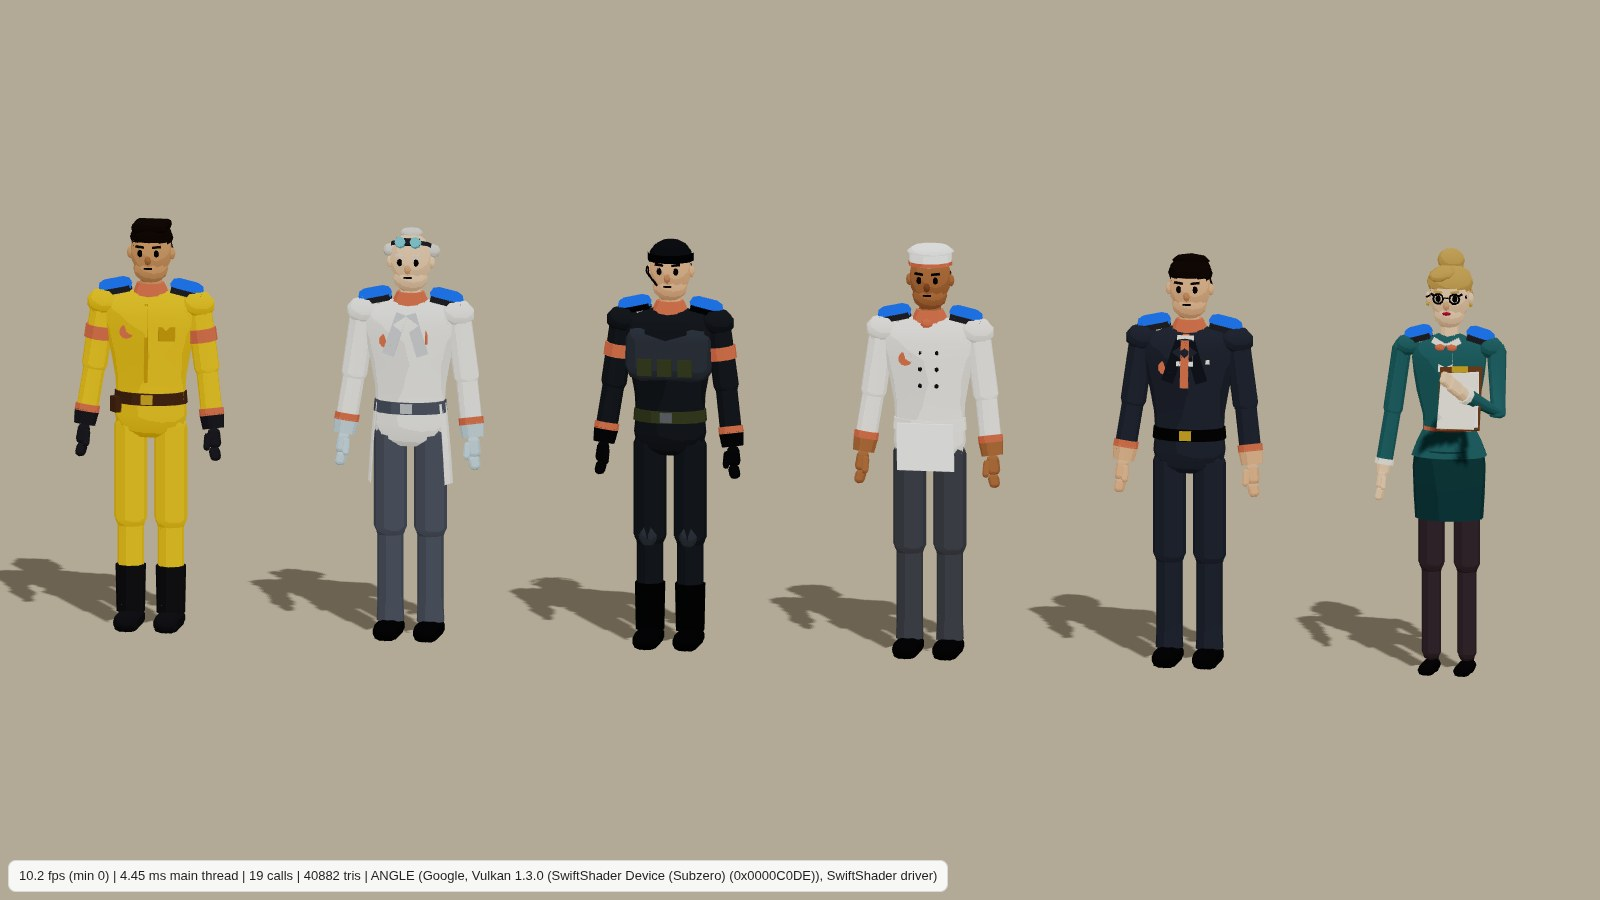
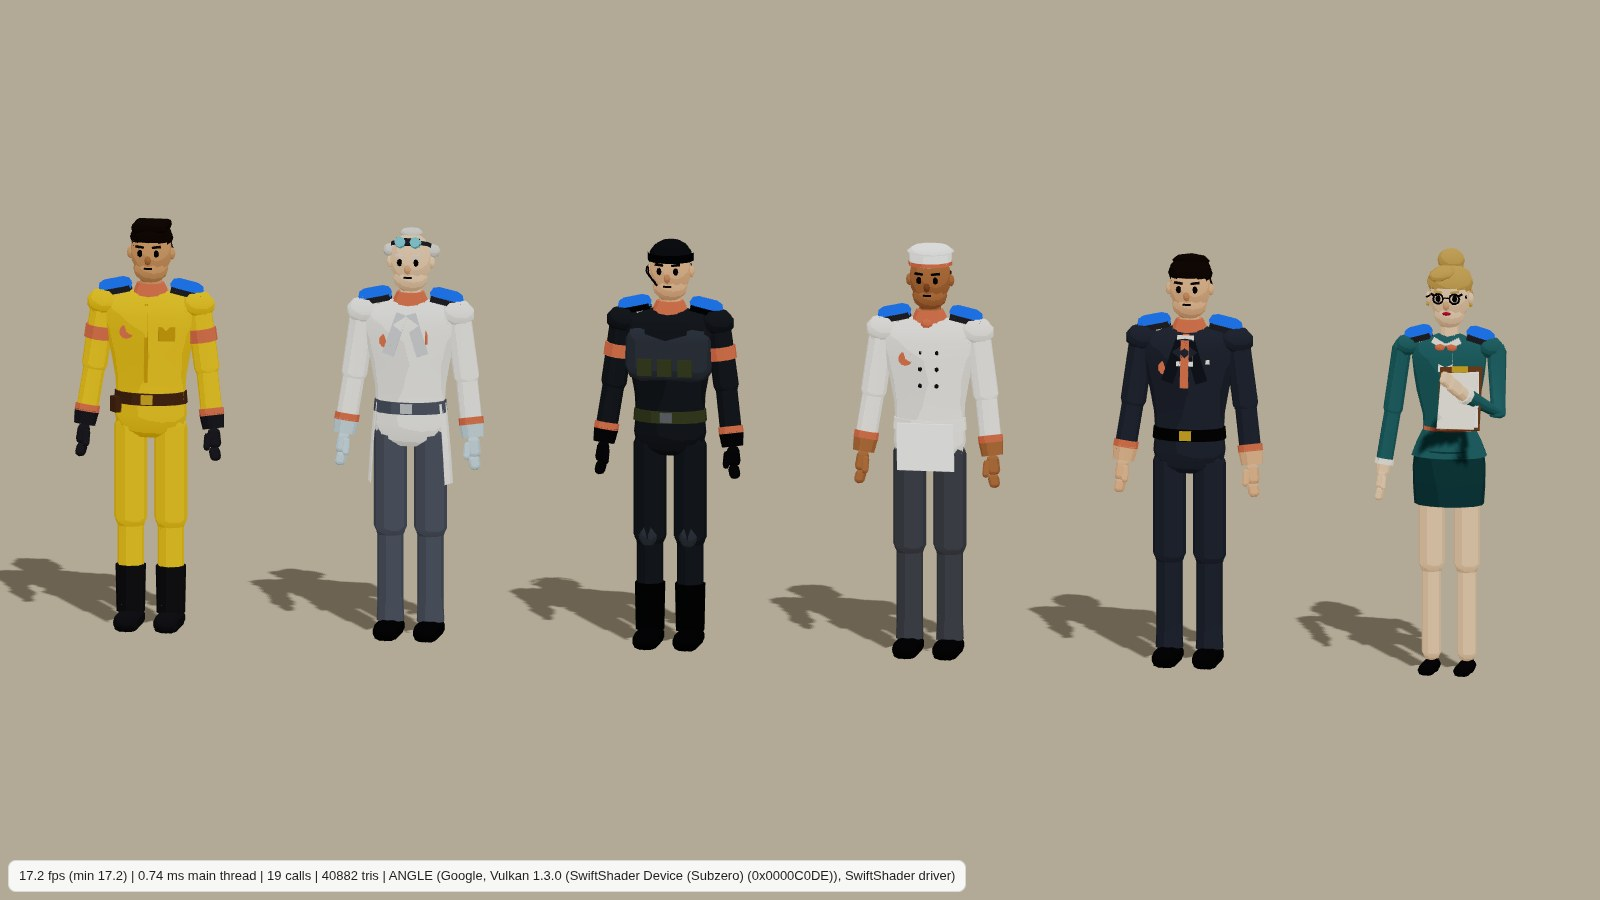
web: the secretary wears a mid-thigh mini skirt over sheer tights in her skin tone (#281)
Review of #287: the knee-length skirt over dark tights read as trousers
from the game camera.

Changed region(s): [[0.0625, 0.9644, 0.625, 0.9956], [0.875, 0.56, 0.9375, 0.7467]]

diff --git a/apps/web/src/scene/henchmen/secretary.test.ts b/apps/web/src/scene/henchmen/secretary.test.ts
@@ -1,6 +1,6 @@
 /**
  * The secretary form (#281): built on the crew's rig, dressed for the office
- * (jacket to the collar, skirt to above the knee), glasses on, hair up, and a
+ * (jacket to the collar, a mini skirt to mid-thigh over sheer tights), glasses on, hair up, and a
  * clipboard that sits in her left arm against the chest in every clip.
  */
 import { describe, expect, test } from "bun:test";
@@ -13,7 +13,8 @@ import { skinMatrix } from "./posed.ts";
 import { HOLD_CLIPBOARD, STAND } from "./poses.ts";
 import { BONE_INDEX, type BoneName, bindPosition } from "./rig.ts";
 import { secretaryParts } from "./secretary.ts";
-import { SKIN_LOOKS, skinGeometry } from "./skins.ts";
+import { paletteFor, SKIN_LOOKS, skinGeometry } from "./skins.ts";
+import { crewVariant, SKIN_TONES } from "./variety.ts";
 
 const g = skinGeometry("secretary");
 
@@ -75,13 +76,25 @@ describe("the secretary", () => {
       if (id !== "secretary") expect([id, look.holds]).toEqual([id, false]);
   });
 
-  test("dressed for the office: skin shows only at the head, neck and hands", () => {
+  test("dressed for the office: bare skin only at the head, neck and hands; the legs are in tights", () => {
     const bare = verts.filter((v) => v.slot === "skin" || v.slot === "skinShade");
     expect(bare.length).toBeGreaterThan(50);
     for (const v of bare) {
       const where = [...HEAD_BONES, ...HAND_BONES].reduce((s, b) => s + v.on(b), 0);
       expect(where).toBeCloseTo(1, 5);
     }
+    // The legs are their own slot (sheer tights), which takes her skin tone, shoes stay dark.
+    const legs = verts.filter((v) => v.on("LowerLegL") + v.on("UpperLegL") > 0.9);
+    expect(new Set(legs.map((v) => v.slot))).toEqual(new Set(["pants"]));
+    expect(SKIN_LOOKS.secretary.sheerLegs).toBe(true);
+    for (const seed of ["moneypenny", "tilly", "shim"]) {
+      const v = crewVariant(seed);
+      const p = paletteFor("secretary", undefined, v);
+      expect(p.pants).toBe(SKIN_TONES[v.tone]?.skin as string);
+      expect(p.boots).toBe(SKIN_LOOKS.secretary.palette.boots);
+    }
+    expect(paletteFor("secretary", undefined).pants).toBe(SKIN_LOOKS.secretary.palette.skin);
+    expect(paletteFor("standard", undefined, crewVariant("shim")).pants).toBe("#F2C200");
     // The jacket closes at the collar: suit or blouse right up to the neck's base.
     const torso = verts.filter(
       (v) => v.on("Body") > 0.5 && (v.slot === "suit" || v.slot === "shirt"),
@@ -89,15 +102,18 @@ describe("the secretary", () => {
     expect(Math.max(...torso.map((v) => v.p.y))).toBeGreaterThan(bindPosition("Neck").y);
   });
 
-  test("the skirt covers from the waist to a little above the knee, all the way round", () => {
+  test("a mini skirt: from the waist to mid-thigh, all the way round, well clear of the hip", () => {
     const skirt = verts.filter((v) => v.slot === "suitDark" && v.p.y < 0.97);
     const knee = bindPosition("LowerLegL").y;
     const hip = bindPosition("UpperLegL").y;
     const hem = Math.min(...skirt.map((v) => v.p.y));
-    expect(hem).toBeGreaterThan(knee + 0.1);
-    expect(hem).toBeLessThan(knee + 0.25);
-    // More than half of the thigh is covered.
-    expect((hip - hem) / (hip - knee)).toBeGreaterThan(0.5);
+    // Mid-thigh: between a third and a half of the thigh is covered.
+    expect((hip - hem) / (hip - knee)).toBeGreaterThan(0.33);
+    expect((hip - hem) / (hip - knee)).toBeLessThan(0.5);
+    // And it ends well below the hip joint and the bottom of the torso under it.
+    expect(hem).toBeLessThan(hip - 0.12);
+    const torsoBottom = Math.min(...verts.filter((v) => v.slot === "suit").map((v) => v.p.y));
+    expect(hem).toBeLessThan(torsoBottom - 0.08);
     expect(Math.max(...skirt.map((v) => v.p.y))).toBeGreaterThan(hip + 0.05);
     // A closed tube: at the hem there are vertices in front, behind and on both sides.
     const rim = skirt.filter((v) => v.p.y < hem + 0.01);

diff --git a/apps/web/src/scene/henchmen/skins.ts b/apps/web/src/scene/henchmen/skins.ts
@@ -38,6 +38,8 @@ export interface SkinLook {
   bareHands: boolean;
   /** Carries a clipboard in the left arm (the `Henchman|Hold` overlay). */
   holds: boolean;
+  /** Sheer tights: the legs (`pants`) take the wearer's skin tone. */
+  sheerLegs?: boolean;
 }
 
 const DARK_SHOES = "#1A1A1D";
@@ -137,7 +139,7 @@ export const SKIN_LOOKS: Readonly<Record<CharacterFormId, SkinLook>> = {
       ...STANDARD_PALETTE,
       suit: "#3C6E71",
       suitDark: "#2B5053",
-      pants: "#4B3F45",
+      pants: STANDARD_PALETTE.skin,
       shirt: "#F4EFE2",
       white: "#FBFAF4",
       boots: "#1E1B1E",
@@ -152,6 +154,7 @@ export const SKIN_LOOKS: Readonly<Record<CharacterFormId, SkinLook>> = {
     variedHair: true,
     bareHands: true,
     holds: true,
+    sheerLegs: true,
   },
 };
 
@@ -181,6 +184,7 @@ export function paletteFor(
     ...(trim ? { trim } : {}),
     ...(variant === DEFAULT_VARIANT ? {} : tone),
     ...(variant !== DEFAULT_VARIANT && look.bareHands ? { gloves: tone.skin } : {}),
+    ...(variant !== DEFAULT_VARIANT && look.sheerLegs ? { pants: tone.skin } : {}),
     ...(variant !== DEFAULT_VARIANT && look.variedHair
       ? { hair: HAIR_COLOURS[variant.hairColour % HAIR_COLOURS.length] ?? look.palette.hair }
       : {}),

diff --git a/apps/web/src/scene/henchmen/secretary.ts b/apps/web/src/scene/henchmen/secretary.ts
@@ -2,8 +2,9 @@
  * The secretary (#281), a form for office agents: an original low-poly design
  * of an adult woman in 1960s spy-film office dress, on the crew's own rig so
  * every clip plays on her. A fitted jacket with a flared hem over a cream
- * blouse, a neck bow in the provider colour, a straight skirt to above the
- * knee, dark tights and court shoes, glasses, hair up (headwear.ts `updo`),
+ * blouse, a neck bow in the provider colour, a 1960s mini skirt to mid-thigh,
+ * sheer tights in her own skin tone (skins.ts `sheerLegs`) and dark court
+ * shoes, glasses, hair up (headwear.ts `updo`),
  * and a clipboard of papers cradled in the left arm (`HOLD_CLIPBOARD`).
  *
  * The skirt is one tube shared by both legs: each side follows its own thigh
@@ -75,8 +76,8 @@ function torso(): Part[] {
   const skirt: Part = {
     geometry: lathe(
       [
-        [0.144, 0.66],
-        [0.15, 0.76],
+        [0.147, 0.72],
+        [0.152, 0.79],
         [0.154, 0.88],
         [0.146, 0.955],
       ],
